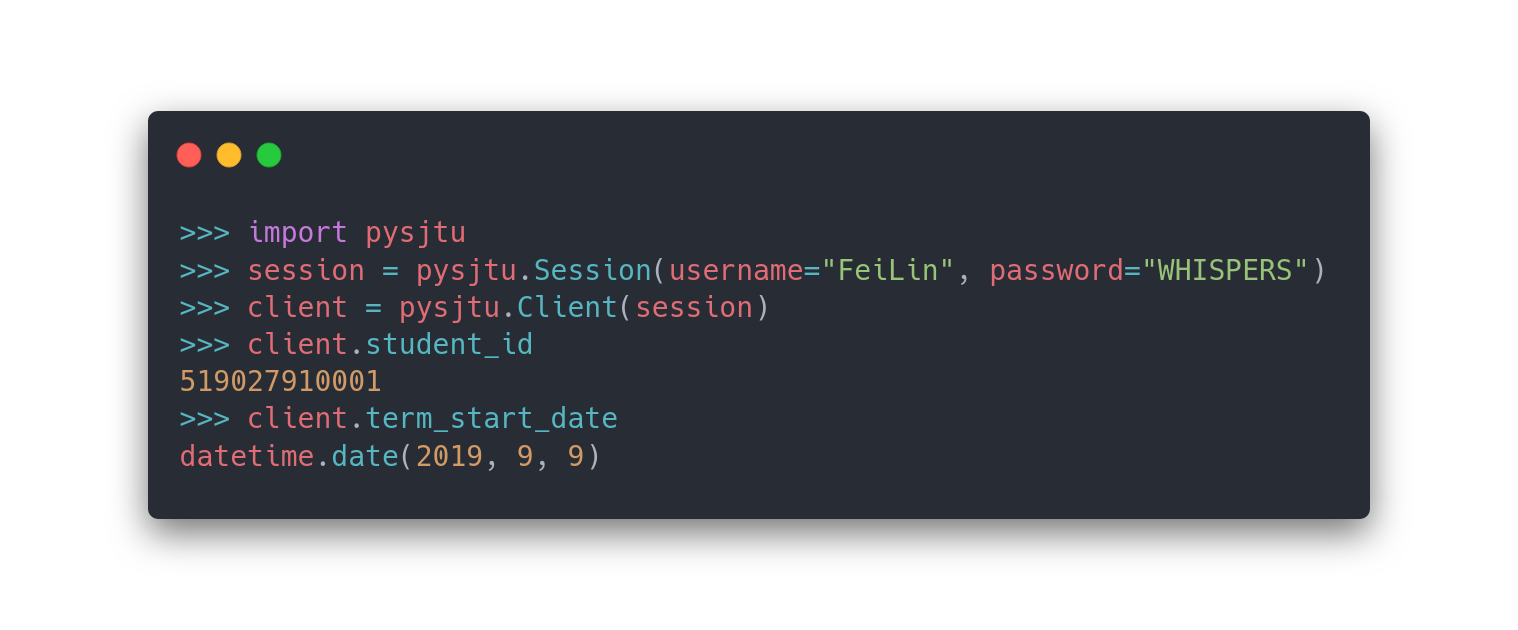
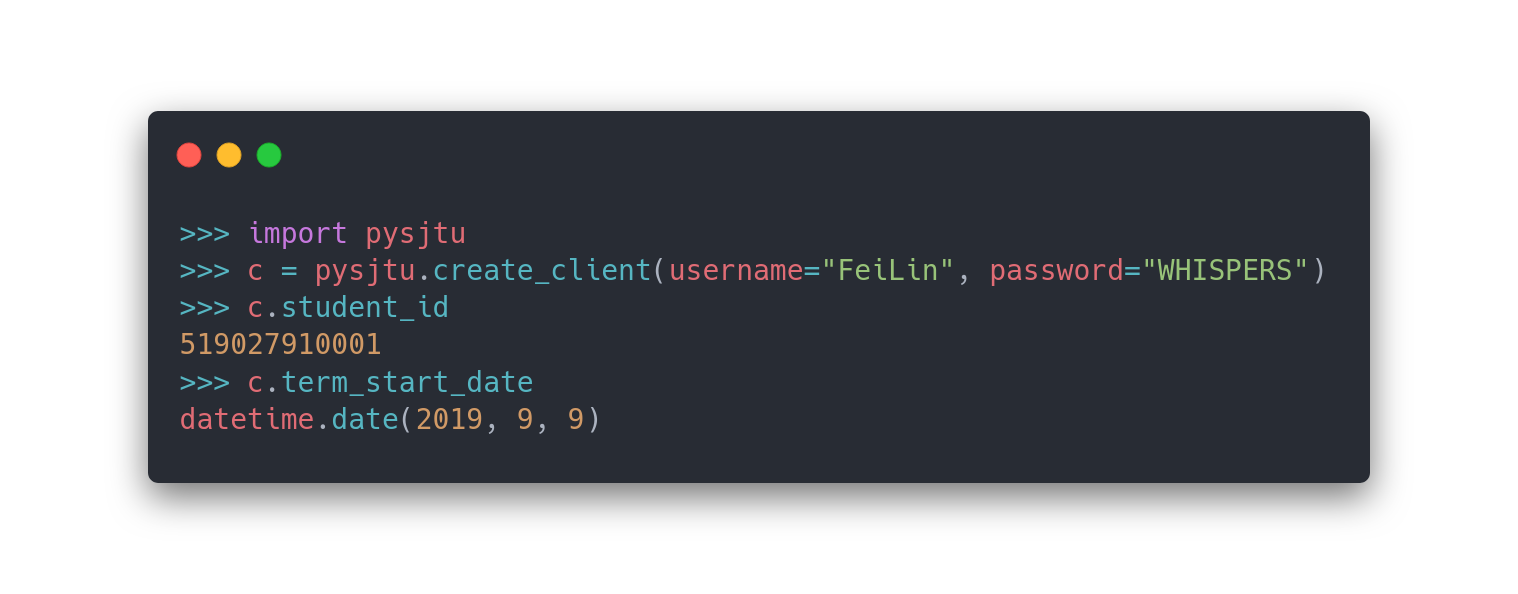
feat(client): create_client to get a Client with default options

diff --git a/tests/test_api.py b/tests/test_api.py
@@ -8,7 +8,7 @@ import pytest
 import respx
 
 from pysjtu.session import Session
-from pysjtu.client import Client
+from pysjtu.client import Client, create_client
 from pysjtu.const import *
 from pysjtu.exceptions import *
 
@@ -256,13 +256,15 @@ class TestClient:
         def post(self): ...
 
     # noinspection PyTypeChecker
-    def test_init(self, logged_session):
+    def test_init(self, mocker, logged_session):
         Client(logged_session)
         Client(self.DummySession)
         with pytest.raises(TypeError):
             Client(0)
         with pytest.raises(TypeError):
             Client(self.DummySession2)
+        client = create_client("FeiLin", "WHISPERS", _mocker_app=app)
+        assert client.student_id == 519027910001
 
     def test_student_id(self, logged_client):
         assert logged_client.student_id == 519027910001

diff --git a/pysjtu/client/__init__.py b/pysjtu/client/__init__.py
@@ -59,3 +59,8 @@ class Client(ScheduleMixin, CourseLibMixin, ExamMixin, GPAMixin, ScoreMixin):
             self._session._cache_store["student_id"] = int(
                 re.findall(r"(?<=id=\"sessionUserKey\" value=\")\d*", rtn.text)[0])
         return self._session._cache_store["student_id"]
+
+
+def create_client(username: str, password: str, _mocker_app=None) -> Client:
+    sess = Session(username=username, password=password, _mocker_app=_mocker_app)
+    return Client(session=sess)

diff --git a/pysjtu/__init__.py b/pysjtu/__init__.py
@@ -1,4 +1,4 @@
-from .client import Client
+from .client import Client, create_client
 from .model import LogicEnum, CourseRange, Ranking
 from .ocr import LegacyRecognizer, NNRecognizer
 from .session import Session

diff --git a/README.md b/README.md
@@ -18,12 +18,11 @@
 
 ```python
 >>> import pysjtu
->>> session = pysjtu.Session(username="FeiLin", password="WHISPERS")
->>> client = pysjtu.Client(session)
->>> chemistry = client.schedule(year=2019, term=0).filter("大学化学")
+>>> c = pysjtu.create_client(username="FeiLin", password="WHISPERS")
+>>> chemistry = c.schedule(year=2019, term=0).filter("大学化学")
 >>> chemistry[0].teacher_name
 ['麦亦勇']
->>> calculus_exam = client.exam(year=2019, term=0).filter(course_id="MA248")
+>>> calculus_exam = c.exam(year=2019, term=0).filter(course_id="MA248")
 >>> calculus_exam[0].date
 datetime.date(2019, 11, 6)
 ```

diff --git a/docs/advanced.rst b/docs/advanced.rst
@@ -7,6 +7,10 @@ Session Object
 The :class:`Session` object contains iSJTU session state, handles login operation, and persists certain parameters and
 some inner states across requests. And it has several HTTP request interfaces to help you send requests as a logged user.
 
+In the :ref:`QuickStart`, we use `create_client` function to acquire a :class:`Client`. Under the hood, `create_client`
+creates a :class:`Session` for you. But if you need features like session persistence, proxies and tuned timeout, you
+need to create the session manually.
+
 Login
 +++++
 

diff --git a/docs/quickstart.rst b/docs/quickstart.rst
@@ -31,8 +31,7 @@ Then, login JAccount and create a client:
 
 .. sourcecode:: python
 
-    >>> s = pysjtu.Session(username="<username>", password="<password>")
-    >>> c = pysjtu.Client(session=s)
+    >>> c = pysjtu.create_client(username="<username>", password="<password>")
     >>> c.student_id
     519027910001
 
